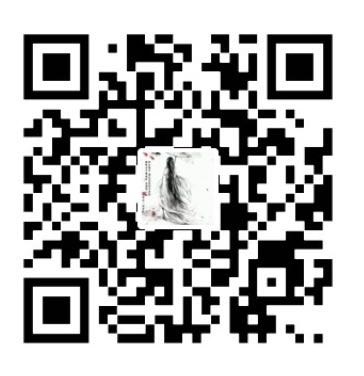
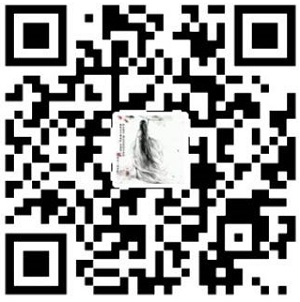
Site updated: 2017-03-30 12:58:10

diff --git a/2017/02/28/Driving-Exam/index.html b/2017/02/28/Driving-Exam/index.html
@@ -394,13 +394,13 @@ http://jingyan.baidu.com/article/84b4f565cc5aff60f6da">
     <div id="QR" style="display: none;">
       
         <div id="wechat" style="display: inline-block">
-          <img id="wechat_qr" src="/images/wechatpay.jpg" alt="郭佳 WeChat Pay"/>
+          <img id="wechat_qr" src="/images/wechatpay.png" alt="郭佳 WeChat Pay"/>
           <p>微信打赏</p>
         </div>
       
       
         <div id="alipay" style="display: inline-block">
-          <img id="alipay_qr" src="/images/alipay.jpg" alt="郭佳 Alipay"/>
+          <img id="alipay_qr" src="/images/alipay.png" alt="郭佳 Alipay"/>
           <p>支付宝打赏</p>
         </div>
       

diff --git a/2017/03/16/unity-path/index.html b/2017/03/16/unity-path/index.html
@@ -512,13 +512,13 @@ Applicat">
     <div id="QR" style="display: none;">
       
         <div id="wechat" style="display: inline-block">
-          <img id="wechat_qr" src="/images/wechatpay.jpg" alt="郭佳 WeChat Pay"/>
+          <img id="wechat_qr" src="/images/wechatpay.png" alt="郭佳 WeChat Pay"/>
           <p>微信打赏</p>
         </div>
       
       
         <div id="alipay" style="display: inline-block">
-          <img id="alipay_qr" src="/images/alipay.jpg" alt="郭佳 Alipay"/>
+          <img id="alipay_qr" src="/images/alipay.png" alt="郭佳 Alipay"/>
           <p>支付宝打赏</p>
         </div>
       

diff --git a/2017/02/08/hexo/index.html b/2017/02/08/hexo/index.html
@@ -396,13 +396,13 @@ Quick">
     <div id="QR" style="display: none;">
       
         <div id="wechat" style="display: inline-block">
-          <img id="wechat_qr" src="/images/wechatpay.jpg" alt="郭佳 WeChat Pay"/>
+          <img id="wechat_qr" src="/images/wechatpay.png" alt="郭佳 WeChat Pay"/>
           <p>微信打赏</p>
         </div>
       
       
         <div id="alipay" style="display: inline-block">
-          <img id="alipay_qr" src="/images/alipay.jpg" alt="郭佳 Alipay"/>
+          <img id="alipay_qr" src="/images/alipay.png" alt="郭佳 Alipay"/>
           <p>支付宝打赏</p>
         </div>
       

diff --git a/2017/01/01/Politics/index.html b/2017/01/01/Politics/index.html
@@ -372,13 +372,13 @@
     <div id="QR" style="display: none;">
       
         <div id="wechat" style="display: inline-block">
-          <img id="wechat_qr" src="/images/wechatpay.jpg" alt="郭佳 WeChat Pay"/>
+          <img id="wechat_qr" src="/images/wechatpay.png" alt="郭佳 WeChat Pay"/>
           <p>微信打赏</p>
         </div>
       
       
         <div id="alipay" style="display: inline-block">
-          <img id="alipay_qr" src="/images/alipay.jpg" alt="郭佳 Alipay"/>
+          <img id="alipay_qr" src="/images/alipay.png" alt="郭佳 Alipay"/>
           <p>支付宝打赏</p>
         </div>
       

diff --git a/2017/02/09/Personal-Blog/index.html b/2017/02/09/Personal-Blog/index.html
@@ -405,13 +405,13 @@
     <div id="QR" style="display: none;">
       
         <div id="wechat" style="display: inline-block">
-          <img id="wechat_qr" src="/images/wechatpay.jpg" alt="郭佳 WeChat Pay"/>
+          <img id="wechat_qr" src="/images/wechatpay.png" alt="郭佳 WeChat Pay"/>
           <p>微信打赏</p>
         </div>
       
       
         <div id="alipay" style="display: inline-block">
-          <img id="alipay_qr" src="/images/alipay.jpg" alt="郭佳 Alipay"/>
+          <img id="alipay_qr" src="/images/alipay.png" alt="郭佳 Alipay"/>
           <p>支付宝打赏</p>
         </div>
       

diff --git a/2017/02/10/Unity-Profiler/index.html b/2017/02/10/Unity-Profiler/index.html
@@ -372,13 +372,13 @@
     <div id="QR" style="display: none;">
       
         <div id="wechat" style="display: inline-block">
-          <img id="wechat_qr" src="/images/wechatpay.jpg" alt="郭佳 WeChat Pay"/>
+          <img id="wechat_qr" src="/images/wechatpay.png" alt="郭佳 WeChat Pay"/>
           <p>微信打赏</p>
         </div>
       
       
         <div id="alipay" style="display: inline-block">
-          <img id="alipay_qr" src="/images/alipay.jpg" alt="郭佳 Alipay"/>
+          <img id="alipay_qr" src="/images/alipay.png" alt="郭佳 Alipay"/>
           <p>支付宝打赏</p>
         </div>
       

diff --git a/2017/02/15/Android-SDK/index.html b/2017/02/15/Android-SDK/index.html
@@ -385,13 +385,13 @@
     <div id="QR" style="display: none;">
       
         <div id="wechat" style="display: inline-block">
-          <img id="wechat_qr" src="/images/wechatpay.jpg" alt="郭佳 WeChat Pay"/>
+          <img id="wechat_qr" src="/images/wechatpay.png" alt="郭佳 WeChat Pay"/>
           <p>微信打赏</p>
         </div>
       
       
         <div id="alipay" style="display: inline-block">
-          <img id="alipay_qr" src="/images/alipay.jpg" alt="郭佳 Alipay"/>
+          <img id="alipay_qr" src="/images/alipay.png" alt="郭佳 Alipay"/>
           <p>支付宝打赏</p>
         </div>
       

diff --git a/2017/02/15/Unity-Android-Status-Bar/index.html b/2017/02/15/Unity-Android-Status-Bar/index.html
@@ -376,13 +376,13 @@
     <div id="QR" style="display: none;">
       
         <div id="wechat" style="display: inline-block">
-          <img id="wechat_qr" src="/images/wechatpay.jpg" alt="郭佳 WeChat Pay"/>
+          <img id="wechat_qr" src="/images/wechatpay.png" alt="郭佳 WeChat Pay"/>
           <p>微信打赏</p>
         </div>
       
       
         <div id="alipay" style="display: inline-block">
-          <img id="alipay_qr" src="/images/alipay.jpg" alt="郭佳 Alipay"/>
+          <img id="alipay_qr" src="/images/alipay.png" alt="郭佳 Alipay"/>
           <p>支付宝打赏</p>
         </div>
       

diff --git a/2017/02/16/Unity-Optimization/index.html b/2017/02/16/Unity-Optimization/index.html
@@ -372,13 +372,13 @@
     <div id="QR" style="display: none;">
       
         <div id="wechat" style="display: inline-block">
-          <img id="wechat_qr" src="/images/wechatpay.jpg" alt="郭佳 WeChat Pay"/>
+          <img id="wechat_qr" src="/images/wechatpay.png" alt="郭佳 WeChat Pay"/>
           <p>微信打赏</p>
         </div>
       
       
         <div id="alipay" style="display: inline-block">
-          <img id="alipay_qr" src="/images/alipay.jpg" alt="郭佳 Alipay"/>
+          <img id="alipay_qr" src="/images/alipay.png" alt="郭佳 Alipay"/>
           <p>支付宝打赏</p>
         </div>
       

diff --git a/2017/02/28/Game-Guide/index.html b/2017/02/28/Game-Guide/index.html
@@ -395,13 +395,13 @@
     <div id="QR" style="display: none;">
       
         <div id="wechat" style="display: inline-block">
-          <img id="wechat_qr" src="/images/wechatpay.jpg" alt="郭佳 WeChat Pay"/>
+          <img id="wechat_qr" src="/images/wechatpay.png" alt="郭佳 WeChat Pay"/>
           <p>微信打赏</p>
         </div>
       
       
         <div id="alipay" style="display: inline-block">
-          <img id="alipay_qr" src="/images/alipay.jpg" alt="郭佳 Alipay"/>
+          <img id="alipay_qr" src="/images/alipay.png" alt="郭佳 Alipay"/>
           <p>支付宝打赏</p>
         </div>
       

diff --git a/2017/02/28/Unity-Triangulate/index.html b/2017/02/28/Unity-Triangulate/index.html
@@ -405,13 +405,13 @@
     <div id="QR" style="display: none;">
       
         <div id="wechat" style="display: inline-block">
-          <img id="wechat_qr" src="/images/wechatpay.jpg" alt="郭佳 WeChat Pay"/>
+          <img id="wechat_qr" src="/images/wechatpay.png" alt="郭佳 WeChat Pay"/>
           <p>微信打赏</p>
         </div>
       
       
         <div id="alipay" style="display: inline-block">
-          <img id="alipay_qr" src="/images/alipay.jpg" alt="郭佳 Alipay"/>
+          <img id="alipay_qr" src="/images/alipay.png" alt="郭佳 Alipay"/>
           <p>支付宝打赏</p>
         </div>
       

diff --git a/2017/03/02/pomelo/index.html b/2017/03/02/pomelo/index.html
@@ -372,13 +372,13 @@
     <div id="QR" style="display: none;">
       
         <div id="wechat" style="display: inline-block">
-          <img id="wechat_qr" src="/images/wechatpay.jpg" alt="郭佳 WeChat Pay"/>
+          <img id="wechat_qr" src="/images/wechatpay.png" alt="郭佳 WeChat Pay"/>
           <p>微信打赏</p>
         </div>
       
       
         <div id="alipay" style="display: inline-block">
-          <img id="alipay_qr" src="/images/alipay.jpg" alt="郭佳 Alipay"/>
+          <img id="alipay_qr" src="/images/alipay.png" alt="郭佳 Alipay"/>
           <p>支付宝打赏</p>
         </div>
       
